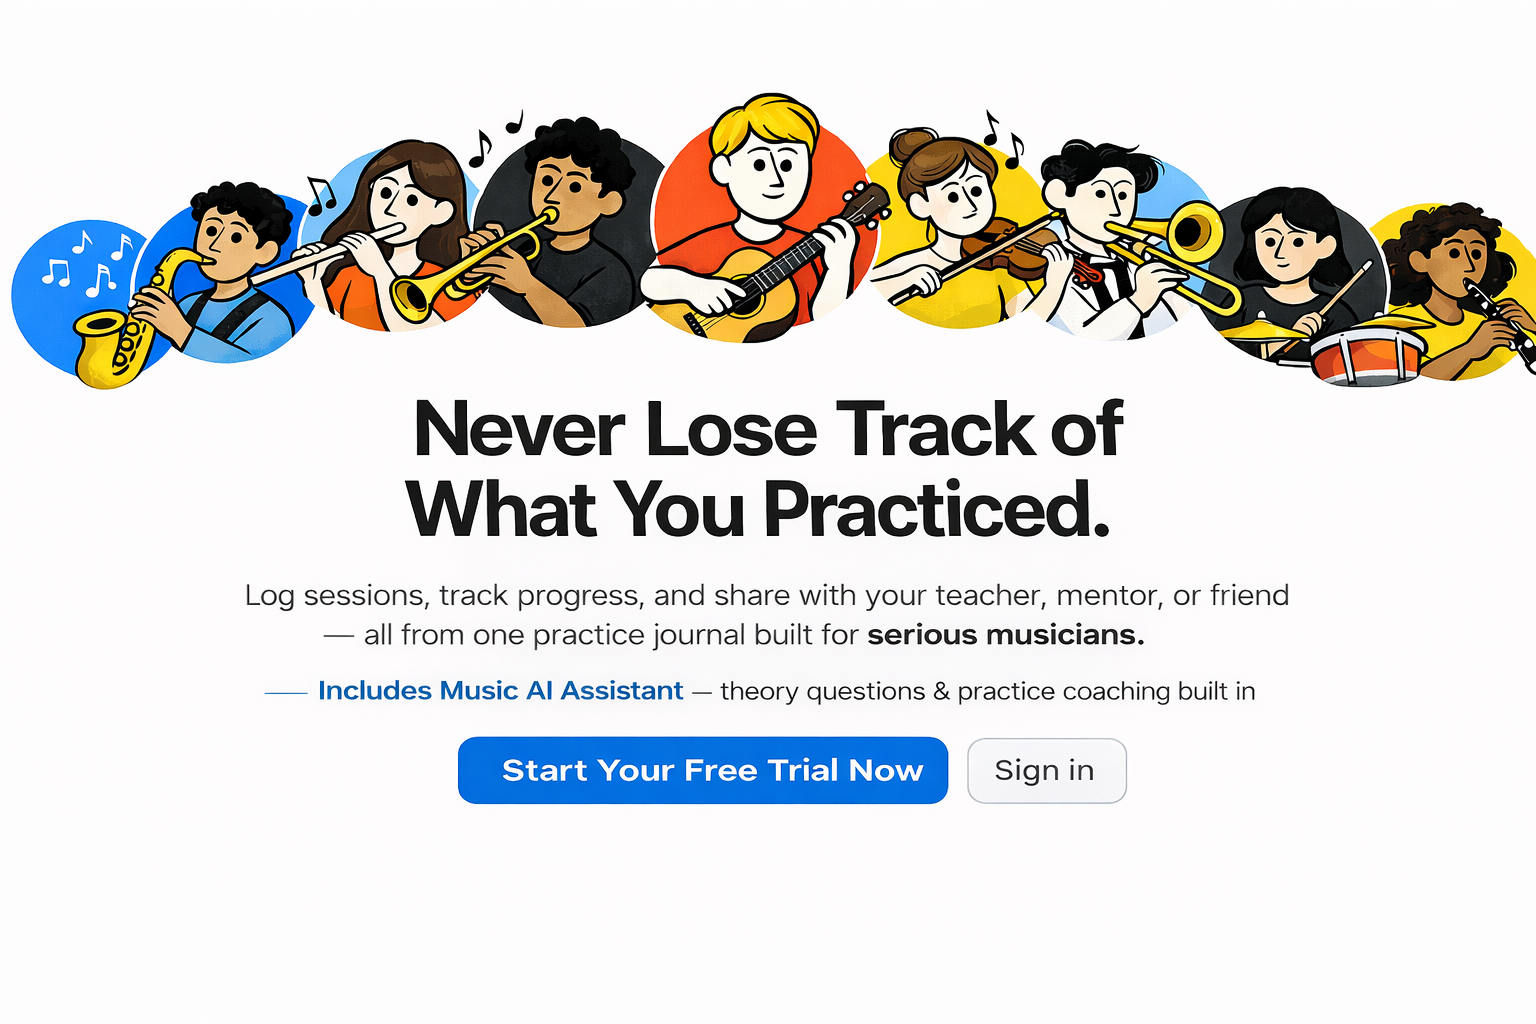
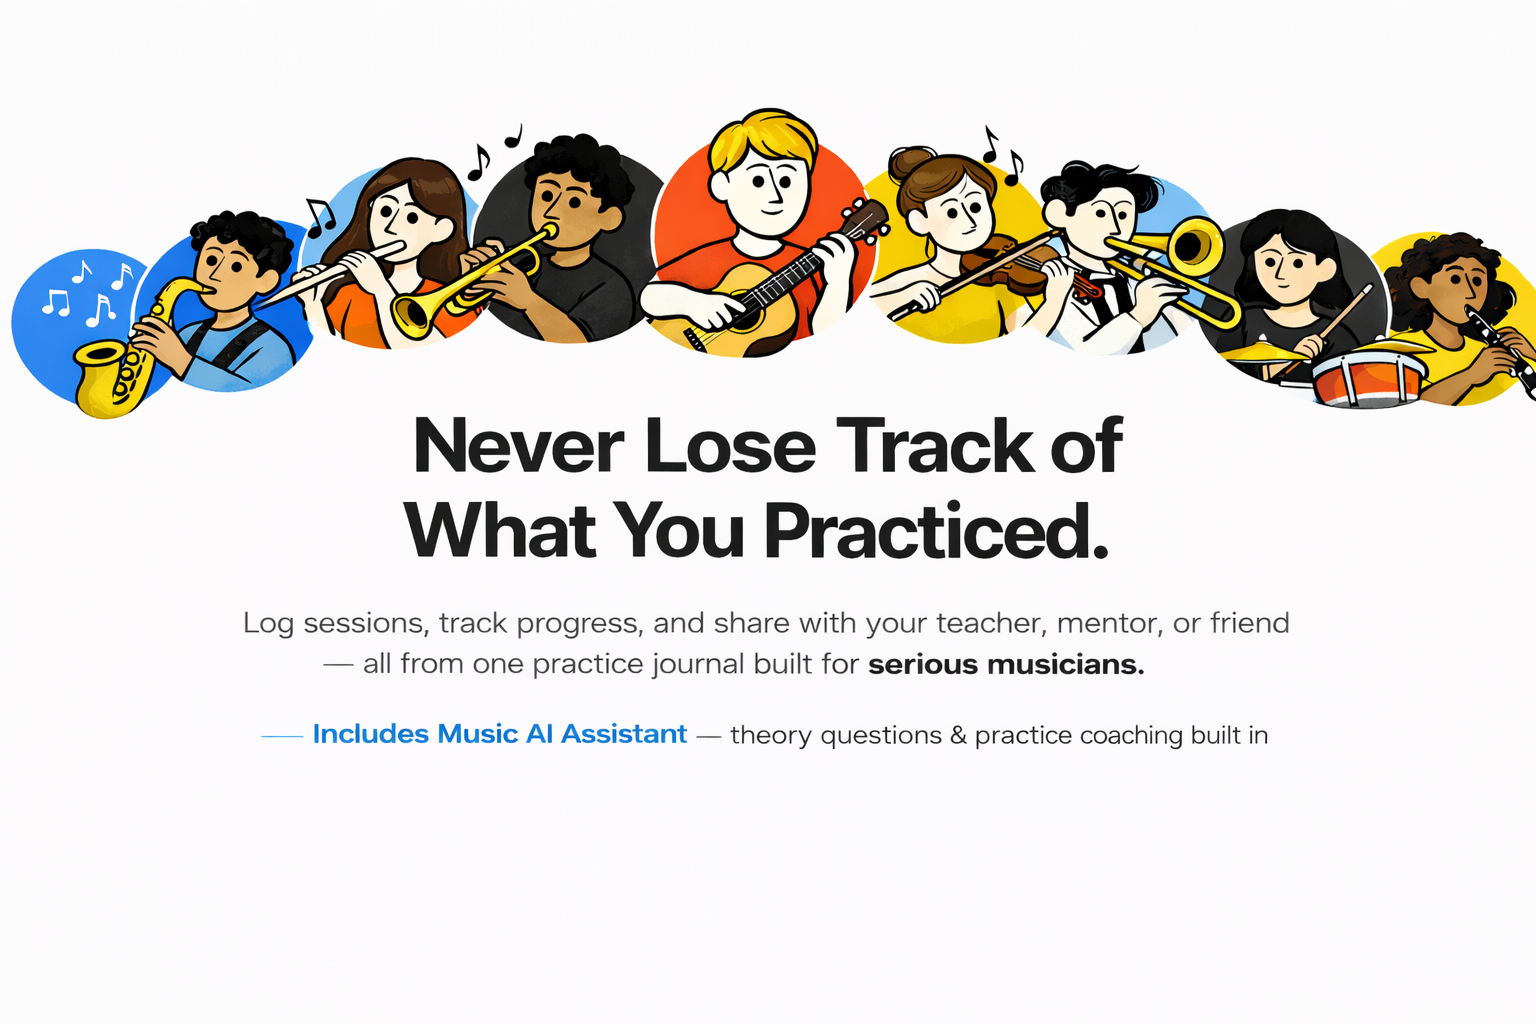
Changes

Changed region(s): [[0.0, 0.0938, 1.0, 0.4062], [0.1562, 0.375, 0.8438, 0.8125], [0.7188, 0.375, 0.75, 0.4062]]

diff --git a/src/pages/Landing.tsx b/src/pages/Landing.tsx
@@ -221,11 +221,11 @@ export default function Landing() {
             className="w-full max-w-4xl h-auto"
             loading="eager"
           />
-          <div className="mt-6 flex items-center justify-center gap-6">
-            <Button variant="link" className="text-base" onClick={() => { setIsLogin(false); scrollToAuth(); }}>
+          <div className="mt-8 flex flex-col sm:flex-row items-center justify-center gap-4">
+            <Button size="lg" className="font-semibold text-base px-8" onClick={() => { setIsLogin(false); scrollToAuth(); }}>
               Start Your Free Trial Now
             </Button>
-            <Button variant="link" className="text-base" onClick={() => { setIsLogin(true); scrollToAuth(); }}>
+            <Button variant="outline" size="lg" className="font-semibold text-base px-8" onClick={() => { setIsLogin(true); scrollToAuth(); }}>
               Sign in
             </Button>
           </div>
